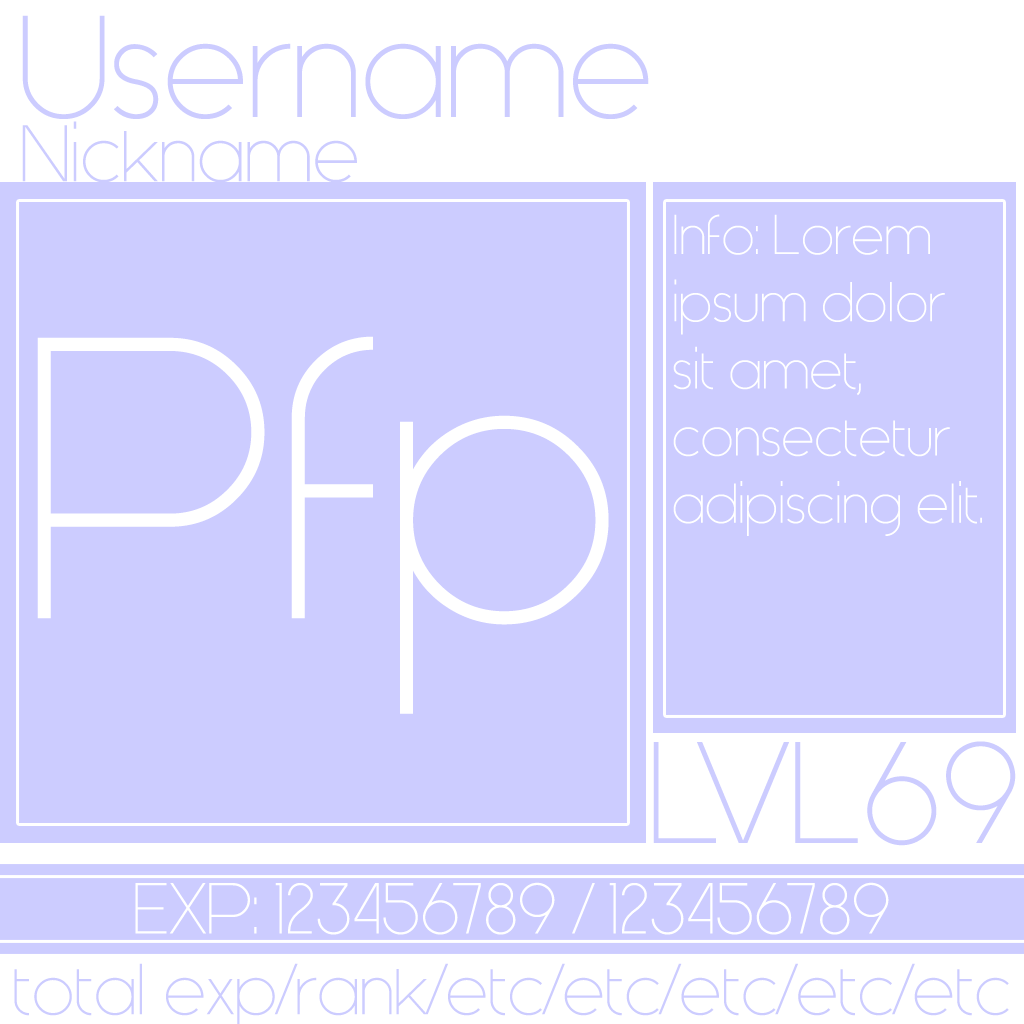
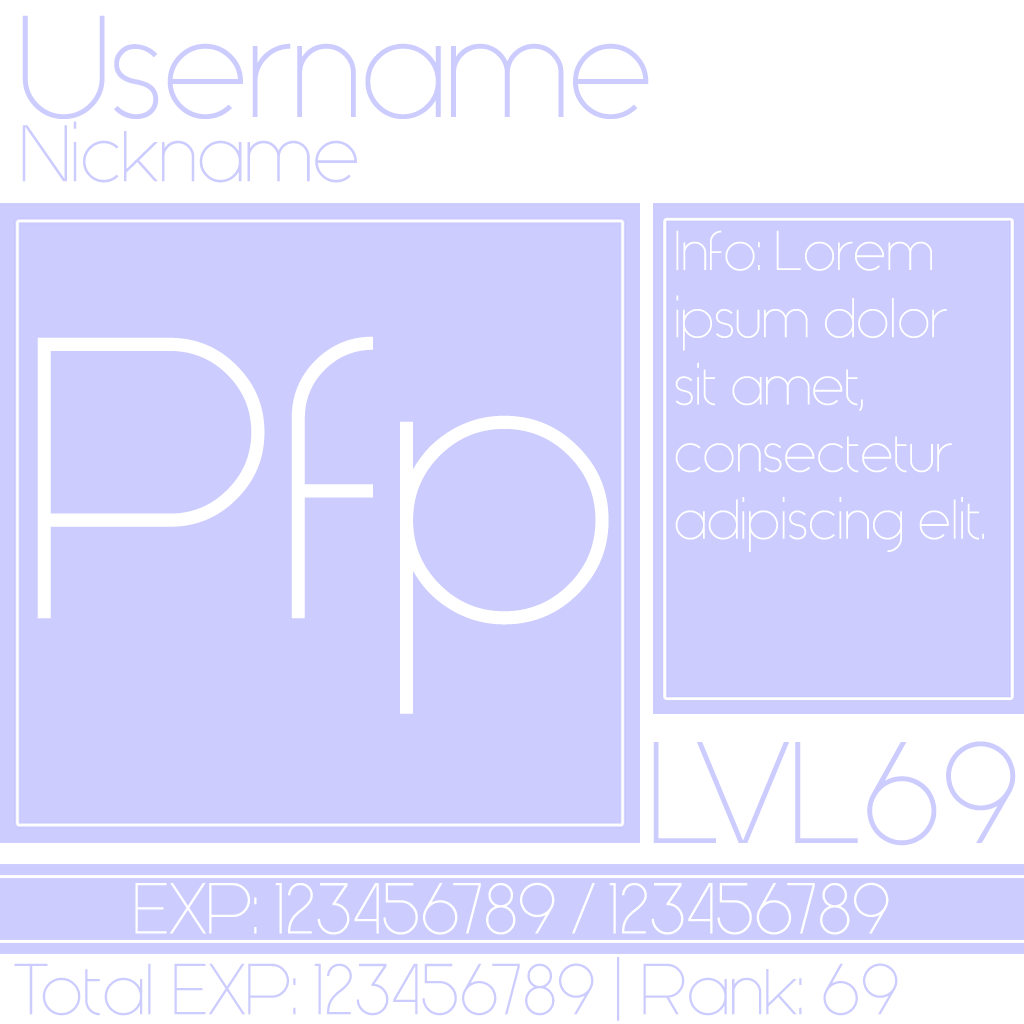
Profile stuff

Changed region(s): [[0.0, 0.1562, 1.0, 0.8125], [0.0, 0.9375, 0.9375, 1.0]]

diff --git a/commands/info/profile.cpscmd/profile.js b/commands/info/profile.cpscmd/profile.js
@@ -1,6 +1,8 @@
 const Jimp = require('jimp');
 const fs = require('fs');
 
+const { pfpW, pfpY, pfpX } = Constants.profileSettings;
+
 module.exports = {
   name: "profile",
   perm: ["server.help"],
@@ -9,16 +11,16 @@ module.exports = {
     try{
       let timestamp = process.hrtime();
 
-      let image = (await Jimp.read(path.join(__dirname,'./profilebase.png'))).clone();
+      let image = (await Jimp.read(path.join(__dirname,'./profilebaseblank.png'))).clone();
 
       let font = path.join(__dirname,'./genericafnt/font.fnt');
 
       Jimp.loadFont( font ).then(async function (font) {
         image.print(font, 200-Math.floor((author.tag.length)/2), 50, author.tag.toString());
         image.print(font, 200-Math.floor((member.displayName).length)/2, 200, member.displayName.toString());
-        let avatar = await Jimp.read(author.avatarURL(512).replace('.webp','.png'));
-        avatar.resize(300, 300);
-        image.blit(avatar,200,300);
+        let avatar = await Jimp.read(author.avatarURL(2048).replace('.webp','.png'));
+        await avatar.resize(pfpW, pfpW);
+        await image.blit(avatar,pfpY,pfpX);
         let filepath= `${author.tag}profile${author.id}.${timestamp}.${image.getExtension()}`;
         image.write(filepath,async ()=>{
           await send('User Profile',{files: [filepath]});
